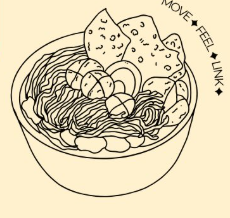
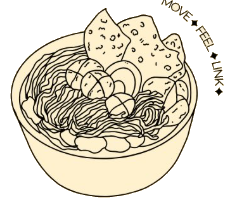
Aventuro: transparent salad bowl, add it next to 'The Salad Experience' tag

diff --git a/aventuro/index.html b/aventuro/index.html
@@ -48,7 +48,7 @@
       <div class="hero-photo-col">
         <div class="hero-photo">
           <img src="assets/hero.jpg" alt="Mariateresa in una variante di Eka Pada Rajakapotasana">
-          <div class="tag" data-i18n="hero.tag">The Salad Experience</div>
+          <div class="tag"><img class="tag-bowl" src="assets/salad-bowl.png" alt=""><span data-i18n="hero.tag">The Salad Experience</span></div>
         </div>
         <div class="tuco-strip" aria-hidden="true">
           <img class="tuco" src="assets/tuco.png" alt="">

diff --git a/aventuro/style.css b/aventuro/style.css
@@ -261,10 +261,15 @@ img { max-width: 100%; display: block; }
   font-family: var(--display);
   font-size: 12px;
   text-transform: uppercase;
-  padding: 8px 14px;
+  padding: 6px 14px 6px 6px;
   border-radius: 30px;
   color: var(--pink);
+  display: flex;
+  align-items: center;
+  gap: 6px;
 }
+
+.hero-photo .tag-bowl { width: 26px; height: 26px; object-fit: contain; }
 
 .hero-photo-col { display: flex; flex-direction: column; }
 
